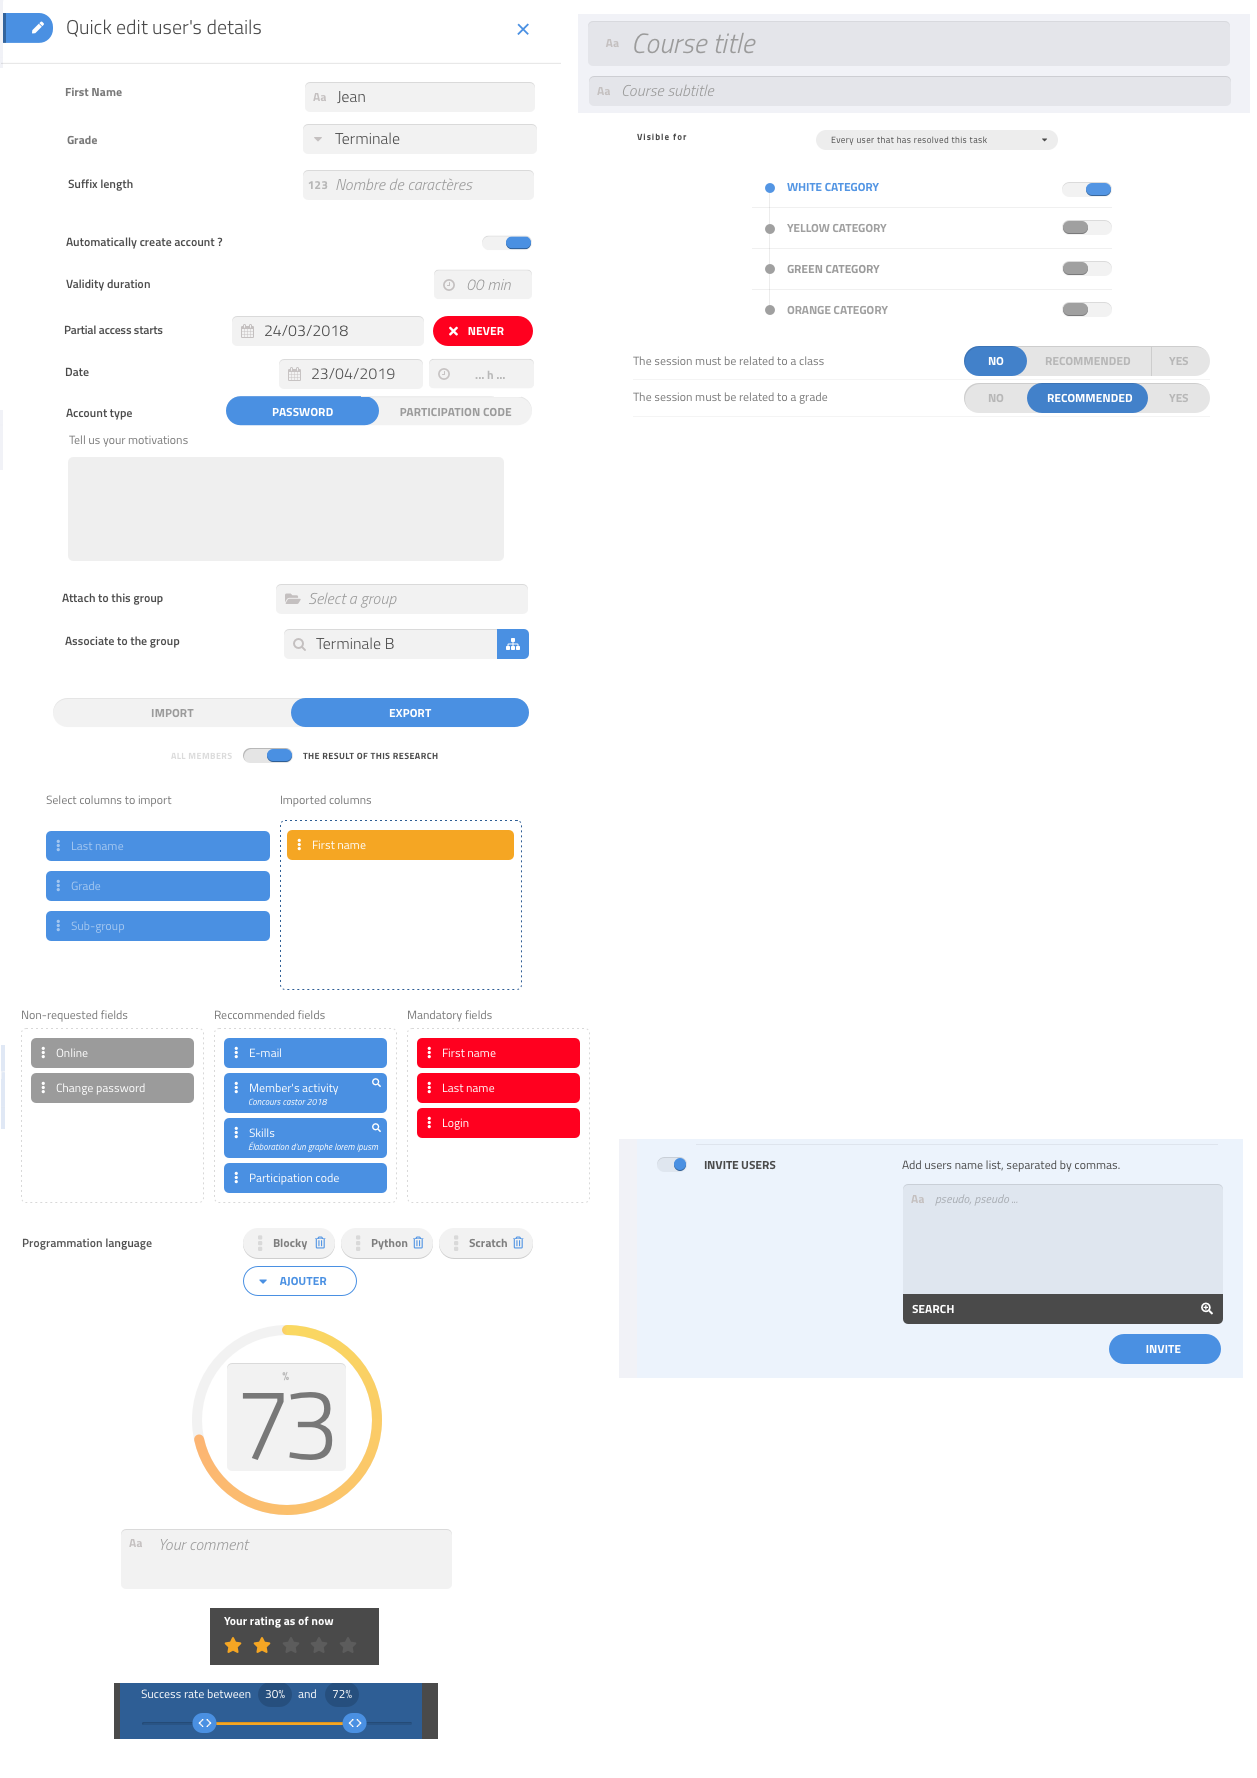
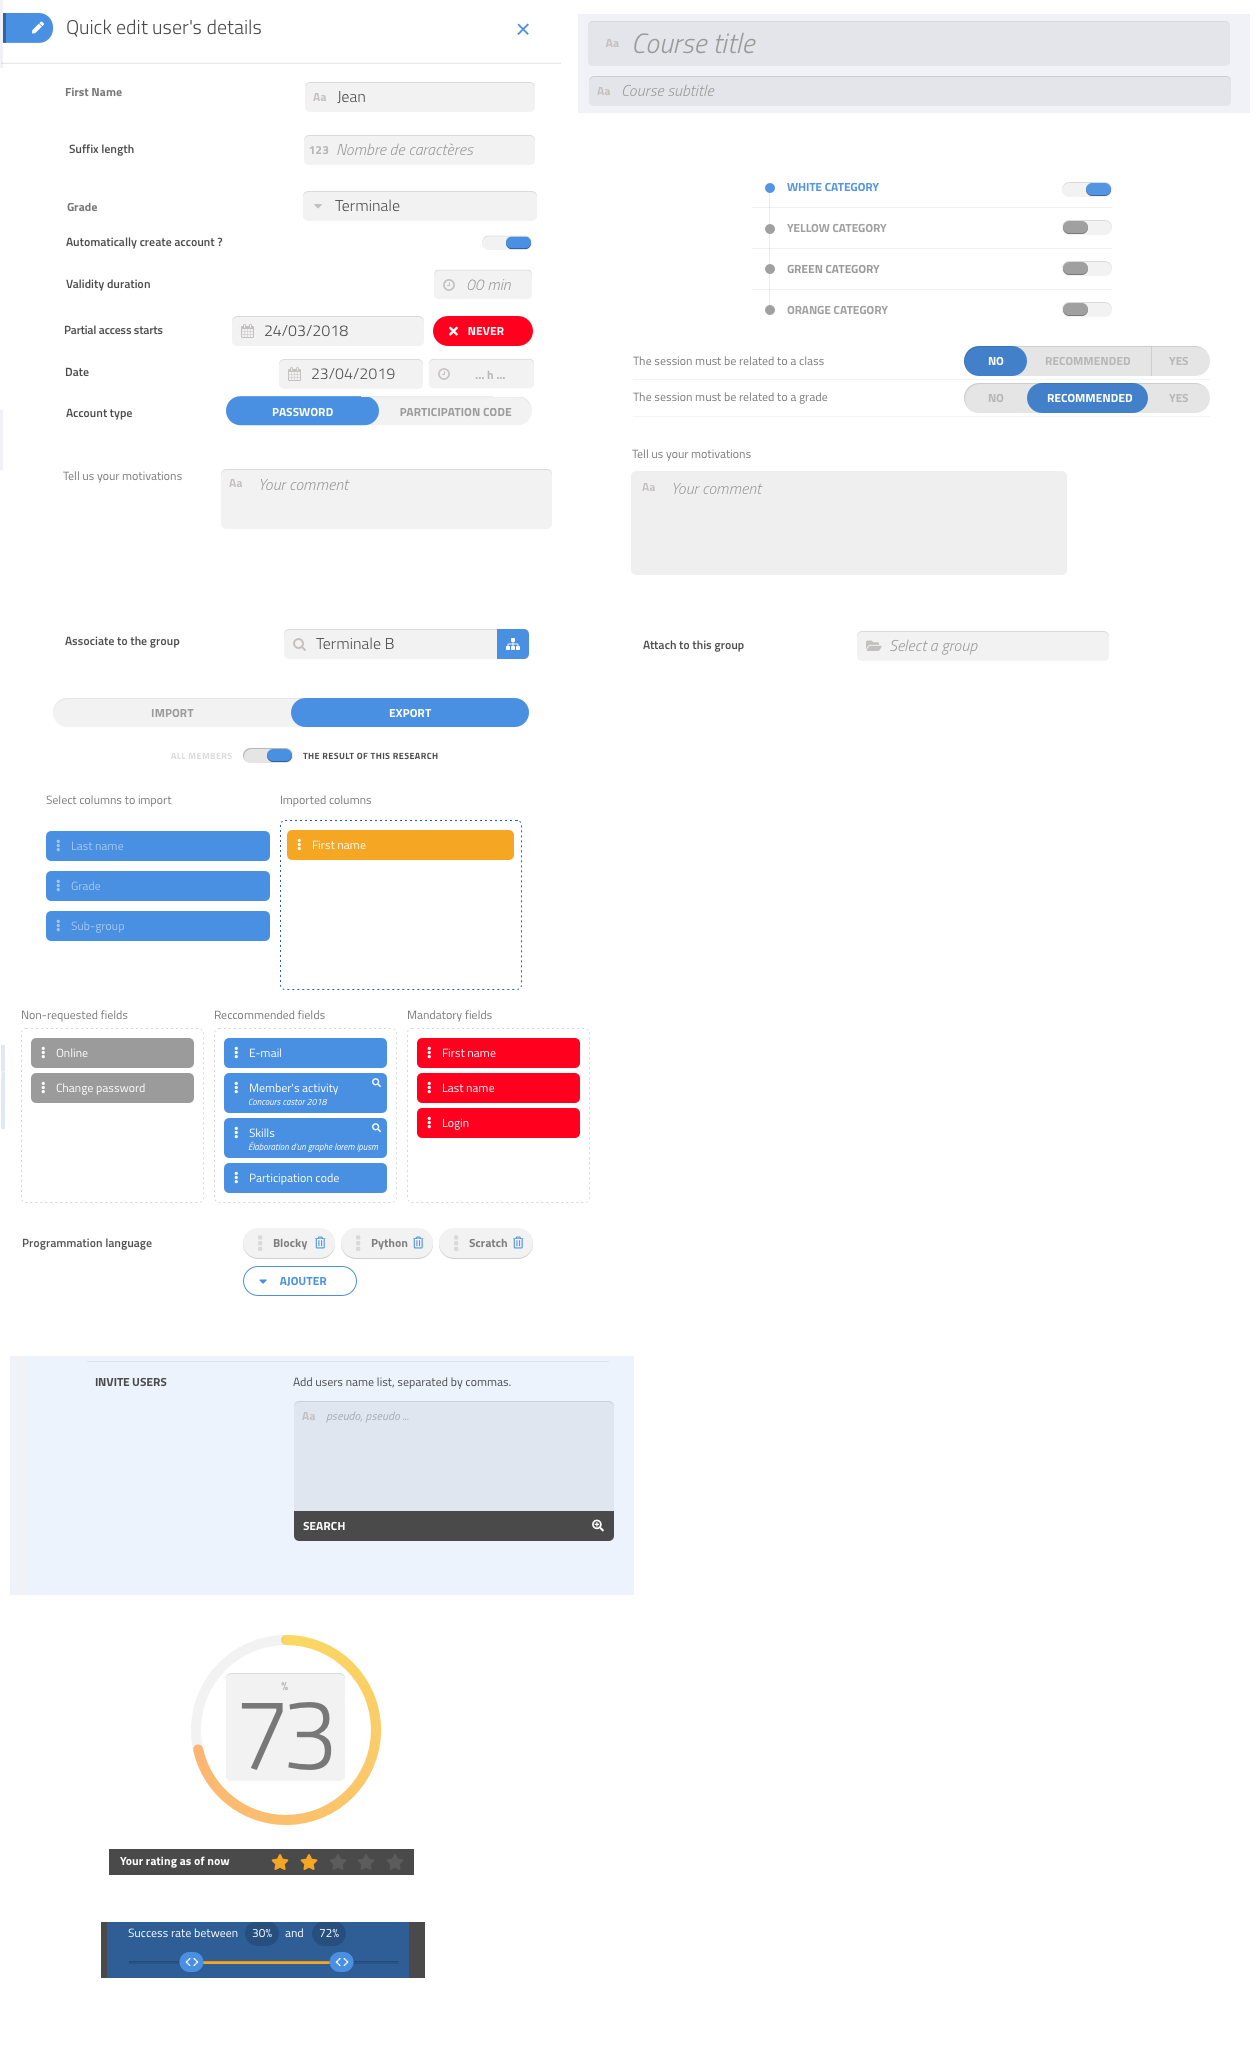
description of input fields

diff --git a/_designs/00.Global/08.Forms/00.Global_08.Forms_d_fields_types.md b/_designs/00.Global/08.Forms/00.Global_08.Forms_d_fields_types.md
@@ -4,3 +4,31 @@ title: Forms fields types
 ref: 00.Global_08.Forms_d_fields_types
 image: 00.Global_08.Forms_d_fields_types.png
 ---
+
+Here are the different types of fields we typically have in forms, listed in the same order as the left column of the image:
+- text input field
+- number input field
+- drop-down selection list
+- boolean switch
+- duration input (just a number field with "min" to the right
+- date picker with optional "Now" (when empty) and "Never" (to empty) buttons
+- date and time picker
+- horizontal switch between several choices
+- text area
+- selection of an item using autocompletion, or clicking on the button to open a (tree dialog)[00.Global_11.Specific_components_h_tree_selection]
+- horizontal centered switch between several choices, without a label
+- horizontal switch between two possibilities
+- selection of a subset of items
+- organizing items into 3 categories (very similar)
+- selection of a subset of items from a list
+- area to type or paste a list of usernames, including search with autocompletion. Design to change, should work like gmail to: field
+- score circle editor (change the value by clicking on the circle or editing the number directly
+- stars based rating field (1 to 5)
+- interval of values using a slider
+
+In the right column, we show:
+- larger input fields without a label
+- a list of switches (can be ignored for now)
+- examples of switches with 3 choices
+- as an option: larger text area that takes the whole width of the form
+- old version of the tree selection (can be ignored)
